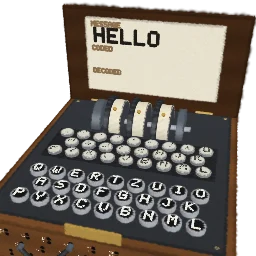
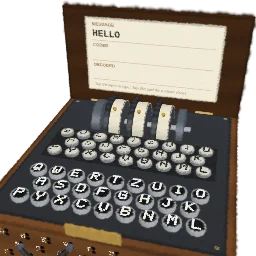
Fix6 part 2: the acoustic guitar in smooth lacquer, with clean strings
Every solid piece placed evenly with no color noise, colored by a smooth
lacquer (soft light, one broad sheen); the top and back sampled by the
outline's width (no lattice); a clean three-ring rosette; the binding
wraps over the ribs; strings at real thickness, drawn out along their
length. Thumbnails for the guitar and the Enigma; handoff notes.

Claude-Session: https://claude.ai/code/session_01423CCzUhrVCWAhKuaF295b

diff --git a/src/packs/music.js b/src/packs/music.js
@@ -57,6 +57,22 @@ function wood(c, base, p, axis = 1, dark = 0.75) {
   return mix(base, shade(base, dark), 0.3 * ring + 0.3 * (0.5 + 0.5 * g));
 }
 
+// Lacquered wood (the guitar, lane Fix6): a smooth color lit softly, with one
+// broad sheen and no fine grain or noise, so it reads as a glossy finish at
+// any size. `bands` gives a faint, wide figure (0 for none).
+function lacquer(c, col, gloss = 0.35, bands = 0) {
+  const d = dot(c.n, LIGHT);
+  let out = shade(col, 0.92 + 0.22 * d);
+  if (bands) {
+    const [x, y] = c.lp;
+    const f = 0.5 + 0.5 * Math.sin(x * 14 + y * 1.5 + 2.5 * c.noise(x * 1.5, y * 0.6, 0.3));
+    out = mix(out, shade(out, 0.8), bands * f);
+  }
+  const h = Math.pow(Math.max(0, dot(c.n, HALF)), 10);
+  return keep(mix(out, "#fff8ee", gloss * h));
+}
+const smooth = { even: true, jitter: 0 };
+
 // A group of shapes moved and turned together.
 function group(k, pos = [0, 0, 0], rot = [0, 0, 0]) {
   const q = rot.length === 4 ? rot : quatEuler(...rot);
@@ -357,37 +373,58 @@ export const RECIPES = {
         cherry: ["#d8402e", "#5a0e10"],
       }[o.finish];
       const side = o.finish === "natural" ? "#8a4a22" : "#5a2412";
-      // Soundboard with a sound hole and rosette.
-      const face = (z, flip) =>
-        k.param(
-          (u, v) => {
-            const y = yb + v * (yt - yb);
-            return [(u * 2 - 1) * halfW(y), y, z];
+      // Soundboard with a sound hole and rosette. (Each face is a flat sheet
+      // whose rows are spaced by the outline's width, so its splats are
+      // spread alike everywhere: no rows, no lattice.)
+      const ROWS = 256;
+      const cum = [0];
+      for (let i = 0; i < ROWS; i++)
+        cum.push(cum[i] + 2 * halfW(yb + ((i + 0.5) / ROWS) * (yt - yb)));
+      const yAt = (v) => {
+        const want = v * cum[ROWS];
+        let i = 0;
+        while (i < ROWS - 1 && cum[i + 1] < want) i++;
+        const f = (want - cum[i]) / Math.max(1e-9, cum[i + 1] - cum[i]);
+        return yb + ((i + f) / ROWS) * (yt - yb);
+      };
+      const face = (z, flip) => {
+        const n = [0, 0, flip ? -1 : 1];
+        return {
+          area: (cum[ROWS] / ROWS) * (yt - yb),
+          thick: 0.01,
+          dims: 2,
+          sample(rand) {
+            const u = rand();
+            const v = rand();
+            const y = yAt(v);
+            return { p: [(u * 2 - 1) * halfW(y), y, z], n, u, v, face: flip ? 3 : 2 };
           },
-          { grid: 64, flip, normal: () => [0, 0, flip ? -1 : 1] },
-        );
+        };
+      };
       g.add(face(T / 2, false), {
         flat: 0.15,
+        ...smooth,
         color: (c) => {
           const [x, y] = c.lp;
           const hole = Math.hypot(x, y + 0.02);
           if (hole < 0.11) return null;
-          if (hole < 0.15)
-            return keep(Math.abs(fract(hole * 70) - 0.5) < 0.25 ? "#2a1a10" : "#e8d8b8");
+          if (hole < 0.15) {
+            const dark = hole < 0.117 || (hole > 0.127 && hole < 0.133) || hole > 0.143;
+            return keep(dark ? "#2a1a10" : "#e8d8b8");
+          }
           const w = halfW(y) || 1;
-          if (Math.abs(x) > w - 0.015) return keep("#f4ead8");
+          if (Math.abs(x) > w - 0.02) return keep("#f4ead8");
           const edge = Math.max(Math.abs(x) / w, band(Math.abs(y + 0.25), 0.4, 0.66));
-          const grain = 0.5 + 0.5 * Math.sin(x * 160 + c.noise(x * 4, y * 20, 0) * 3);
-          const col = mix(top[0], top[1], Math.pow(edge, 3));
-          return lit(c, shade(col, 0.95 + 0.07 * grain), 0.25, 0.45);
+          return lacquer(c, mix(top[0], top[1], Math.pow(edge, 3)), 0.4);
         },
       });
       g.add(face(-T / 2, true), {
         flat: 0.15,
-        color: (c) => lit(c, wood(c, side, c.lp, 1), 0.3, 0.3),
+        ...smooth,
+        color: (c) => lacquer(c, side, 0.3, 0.12),
       });
       // The dark inside, seen through the sound hole.
-      g.add(k.disc(0.12), { pos: [0, -0.02, -T / 2 + 0.02], rot: [90, 0, 0], color: "#140c08" });
+      g.add(k.disc(0.12), { pos: [0, -0.02, -T / 2 + 0.02], rot: [90, 0, 0], ...smooth, color: () => keep("#140c08") }); // prettier-ignore
       // Ribs round the outline.
       g.add(
         k.param(
@@ -399,20 +436,23 @@ export const RECIPES = {
           },
           { grid: 96 },
         ),
-        { flat: 0.15, color: (c) => lit(c, wood(c, side, c.lp, 1), 0.3, 0.3) },
+        // The cream binding wraps over the top edge of the ribs.
+        { flat: 0.15, ...smooth, color: (c) => (c.v > 0.86 ? keep("#f4ead8") : lacquer(c, side, 0.3, 0.1)) }, // prettier-ignore
       );
       // Bridge and saddle.
       g.add(k.roundedBox(0.3, 0.06, 0.025, 4), {
         pos: [0, -0.58, T / 2 + 0.012],
         flat: 0.2,
         weight: 2,
-        color: (c) => lit(c, "#2a1810", 0.3, 0.3),
+        ...smooth,
+        color: (c) => lacquer(c, "#2a1810", 0.3),
       });
       g.add(k.box(0.2, 0.008, 0.012), {
         pos: [0, -0.575, T / 2 + 0.028],
         weight: 3,
         pattern: false,
-        color: "#f4efe0",
+        ...smooth,
+        color: () => keep("#f4efe0"),
       });
       // Neck, fingerboard with frets and dots, and the headstock with pegs.
       const nutY = 1.36;
@@ -421,12 +461,14 @@ export const RECIPES = {
       g.add(k.box(0.1, nutY - 0.38, 0.05), {
         pos: [0, (nutY + 0.38) / 2, T / 2 - 0.035],
         flat: 0.2,
-        color: (c) => lit(c, wood(c, "#9a6a3a", c.lp, 1), 0.3),
+        ...smooth,
+        color: (c) => lacquer(c, "#9a6a3a", 0.3, 0.1),
       });
       g.add(k.box(0.1, nutY - 0.12, 0.018), {
         pos: [0, (nutY + 0.12) / 2, T / 2 + 0.005],
         flat: 0.15,
         weight: 1.5,
+        ...smooth,
         color: (c) => {
           const y = c.p === undefined ? 0 : c.lp[1] + (nutY + 0.12) / 2;
           for (let n = 1; n <= 19; n++)
@@ -439,20 +481,22 @@ export const RECIPES = {
             Math.abs(Math.abs(c.lp[0]) - 0.025) < 0.012
           )
             return keep("#f4f0e6");
-          return lit(c, "#2e1e14", 0.25);
+          return lacquer(c, "#2e1e14", 0.2);
         },
       });
       g.add(k.box(0.105, 0.012, 0.022), {
         pos: [0, nutY, T / 2 + 0.012],
         weight: 3,
         pattern: false,
-        color: "#f4efe0",
+        ...smooth,
+        color: () => keep("#f4efe0"),
       });
       g.add(k.roundedBox(0.16, 0.34, 0.035, 5), {
         pos: [0, nutY + 0.18, T / 2 - 0.04],
         rot: [-10, 0, 0],
         flat: 0.2,
-        color: (c) => lit(c, "#2a1810", 0.3, 0.4),
+        ...smooth,
+        color: (c) => lacquer(c, "#2a1810", 0.4),
       });
       for (let i = 0; i < 3; i++)
         for (const s of [-1, 1]) {
@@ -462,13 +506,15 @@ export const RECIPES = {
             rot: [0, 0, 90],
             weight: 3,
             pattern: false,
-            color: (c) => chrome(c),
+            ...smooth,
+            color: (c) => keep(chrome(c)),
           });
           g.add(k.roundedBox(0.03, 0.05, 0.015, 4), {
             pos: [s * 0.15, y, T / 2 - 0.04],
             weight: 3,
             pattern: false,
-            color: (c) => lit(c, "#f0e8d8", 0.3),
+            ...smooth,
+            color: (c) => lacquer(c, "#f0e8d8", 0.3),
           });
         }
       // Rings of sound that pulse out of the soundhole, hidden at rest: three
@@ -501,7 +547,7 @@ export const RECIPES = {
         const a = [f * 0.075, -0.575, zS];
         const b = [f * 0.042, nutY, zS];
         const mid = vec.mul(vec.add(a, b), 0.5);
-        const r = 0.005 - i * 0.0004;
+        const r = 0.0026 - i * 0.00026;
         const wound = i < 4;
         for (const [p0, p1, key] of [
           [a, mid, "a"],
@@ -513,8 +559,12 @@ export const RECIPES = {
             flat: 0.3,
             weight: 6,
             size: 0.6,
+            // Splats drawn out along the string, so it reads as one line.
+            stretch: 3,
             pattern: false,
-            color: (c) => lit(c, wound ? "#e8c890" : "#ffffff", 0.15),
+            ...smooth,
+            // Clean lines: one even color along each string, lit softly.
+            color: (c) => keep(lit(c, wound ? "#dcbc84" : "#eef1f4", 0.12)),
           });
         }
       }

diff --git a/docs/handoff/Fix6.md b/docs/handoff/Fix6.md
@@ -93,8 +93,12 @@ you make or a CC0 photo, opened end to end), 2, 3a, 3b and 4. Reply with "READY:
 
 Model: Opus 5.5 (default effort).
 
-October 1, 2026: part 1 (Photo to 3D) is built and tested on `claude/lane-fix6-1`, PR "Phase Fix6,
-part 1: Photo to 3D opens your own photos". Parts 2 to 4 follow on `claude/lane-fix6-2`.
+October 1, 2026:
+
+- Part 1 (Photo to 3D) is on `claude/lane-fix6-1`, PR #154.
+- The engine piece is on `claude/lane-fix6-engine`, PR #155 ("Engine: …"); merge it first.
+- Part 2 (the Enigma, the periodic table, the acoustic guitar) is on `claude/lane-fix6-2`, stacked
+  on both. `tests/fx6-2.spec.mjs` passes.
 
 ## Notes
 
@@ -125,6 +129,53 @@ part 1: Photo to 3D opens your own photos". Parts 2 to 4 follow on `claude/lane-
     Safari …". Any other unreadable file: "This browser couldn't read that file as a photo. Save it
     as a JPEG, PNG or WebP and open that."
 
+- **Periodic table, no loading flash** (3a, engine PR #155). A tile tap sets the "element" option
+  and rebuilds the toy, and the app showed its loading overlay after 120 ms. A rebuild takes 1.3 to
+  2.4 s in the test browser, so delaying the overlay alone would not have helped. Now
+  `player.rebuild` (a toy's own tap) never shows the overlay: the table stays and the new atom
+  rises. An option changed in the Toy tab shows it only after 0.5 s; choosing a toy, as before.
+- **Periodic table, the tour** (3b).
+  - A tap on an empty part of the board (the wide gap at the top, or the margins; not a tile, not
+    the atom) starts a walk through all 118 elements. Each atom rises and fills in 1.6 s, holds, and
+    the table moves on after 2.2 s (plus the rebuild), with a lit frame (part `halo`) round the
+    tile.
+  - The tour lives in module state (`TOUR`) because each element is its own build. The drive asks
+    for the next element with the new engine hook `out.next` (rebuilt like a tile tap, no tap
+    sound).
+  - Option "Tour order": "By atomic number" (default) or "Shuffled".
+  - Any tap stops it, and so does lowering the atom (the Toy tab's button, or a tap beside the toy).
+  - Lowering is now a tap on the shown element's own tile (it already toggled; the risen tile now
+    counts too).
+  - The halo is built last, so the table's own splats are the same for every element (chs test).
+- **Enigma machine** (2).
+  - A tap on a key of the machine's keyboard, or a letter typed on a keyboard, types that letter:
+    the key goes down, the rotors step, the lamp lights, and the letter and its code go on the pad.
+    Keys queue (like the laptop's), so quick typing loses none.
+  - The pad is now a live picture (the recipe's `screen`, kind "screen", as on the laptop), so it
+    can show any letters: MESSAGE, CODED and DECODED in five-letter groups, and a line "Tap the keys
+    to type. Tap this pad for a clean sheet."
+  - A tap off the keys decodes what was typed. With nothing typed, it types the stored message and
+    the next one decodes it, as before. A tap on the pad gives a clean sheet, and the rotors turn
+    back to the start. A message is up to 20 letters; the next key starts a clean sheet.
+  - The keyboard: a field being typed in keeps its keys (`ui.isTyping`, as the laptop), and so do
+    the site's shortcuts p (poke) and r (reset view); Shift+P and Shift+R type those letters.
+    Digits,
+    - and −, arrows and Escape aren't letters, so they stay the site's too.
+  - The panel is now titled "Type your own message", with a note saying you can type on the machine,
+    and the file button is gone (it only took text).
+  - Sounds: the same clack, ratchet and click cues as before, played per key. No new sounds.
+- **Acoustic guitar** (4).
+  - The grain was three things: fine sine stripes on the top (`sin(x*160 + noise)`), fbm wood on the
+    back, ribs and neck, and the kit's default color noise (jitter 0.04) with random placement on
+    every piece.
+  - Now every solid piece is placed evenly with no color noise, colored by `lacquer()`: a smooth
+    color, soft light and one broad sheen, with a faint wide figure on the back and neck.
+  - The top and back are sheets whose rows follow the outline's width (no lattice), the rosette is
+    three clean rings, and the cream binding wraps over the ribs' edge.
+  - The strings were modeled 5 to 3 mm thick and drawn as scattered dots. They are now 2.6 to 1.3
+    mm, with splats drawn out along them, so they read as clean lines. They still bend and vibrate
+    on the strum.
+
 ## Known issues
 
 - The panel's line "… splats in 1 pieces of surface" (an older line) reads oddly for one piece.
@@ -132,3 +183,6 @@ part 1: Photo to 3D opens your own photos". Parts 2 to 4 follow on `claude/lane-
 ## For the Operator
 
 - Part 1 is ready for an Integrator as soon as its PR is up.
+- Merge order: #154 (part 1), #155 (engine), then part 2.
+- Sound B: nothing new is needed. The tour plays each atom's own shell notes as it fills; the
+  Enigma's keys reuse its clack, ratchet and click.
